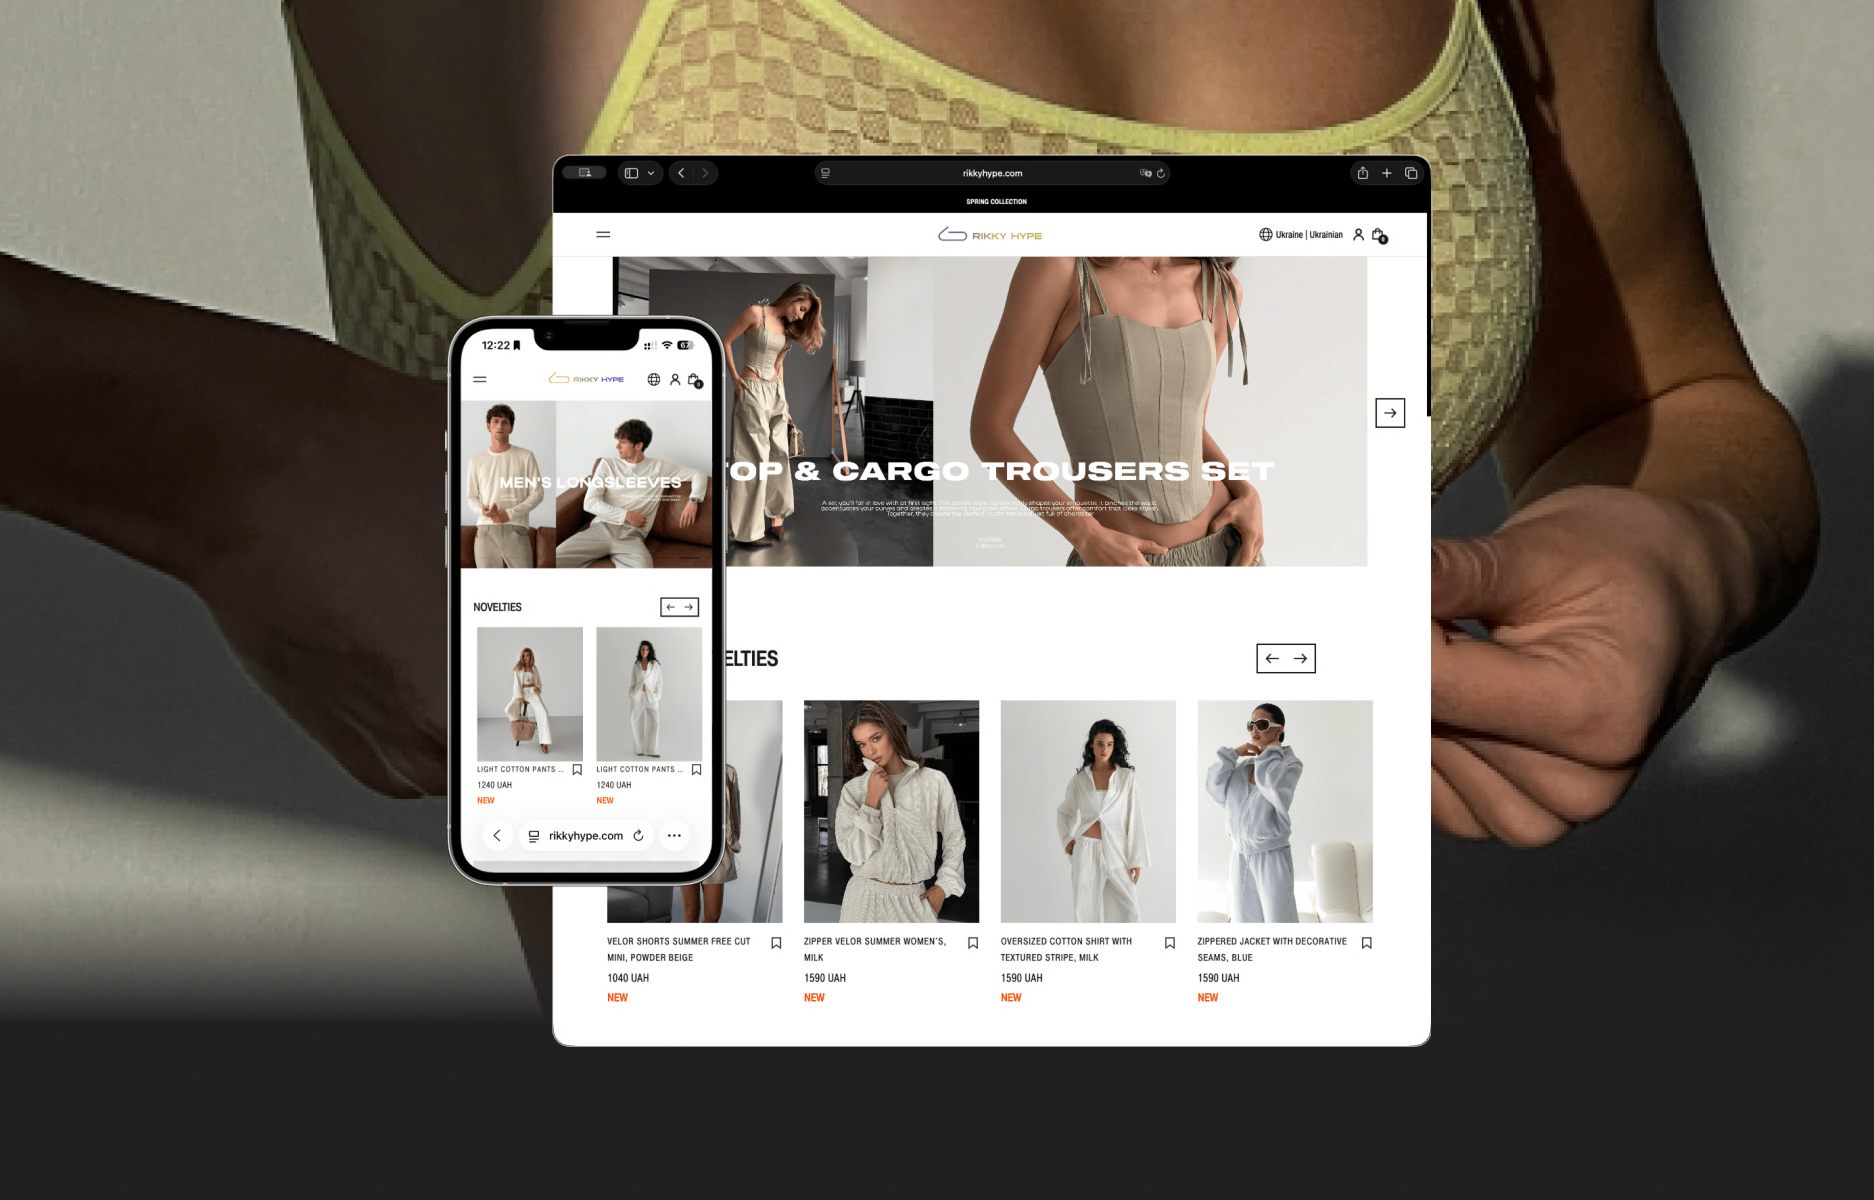
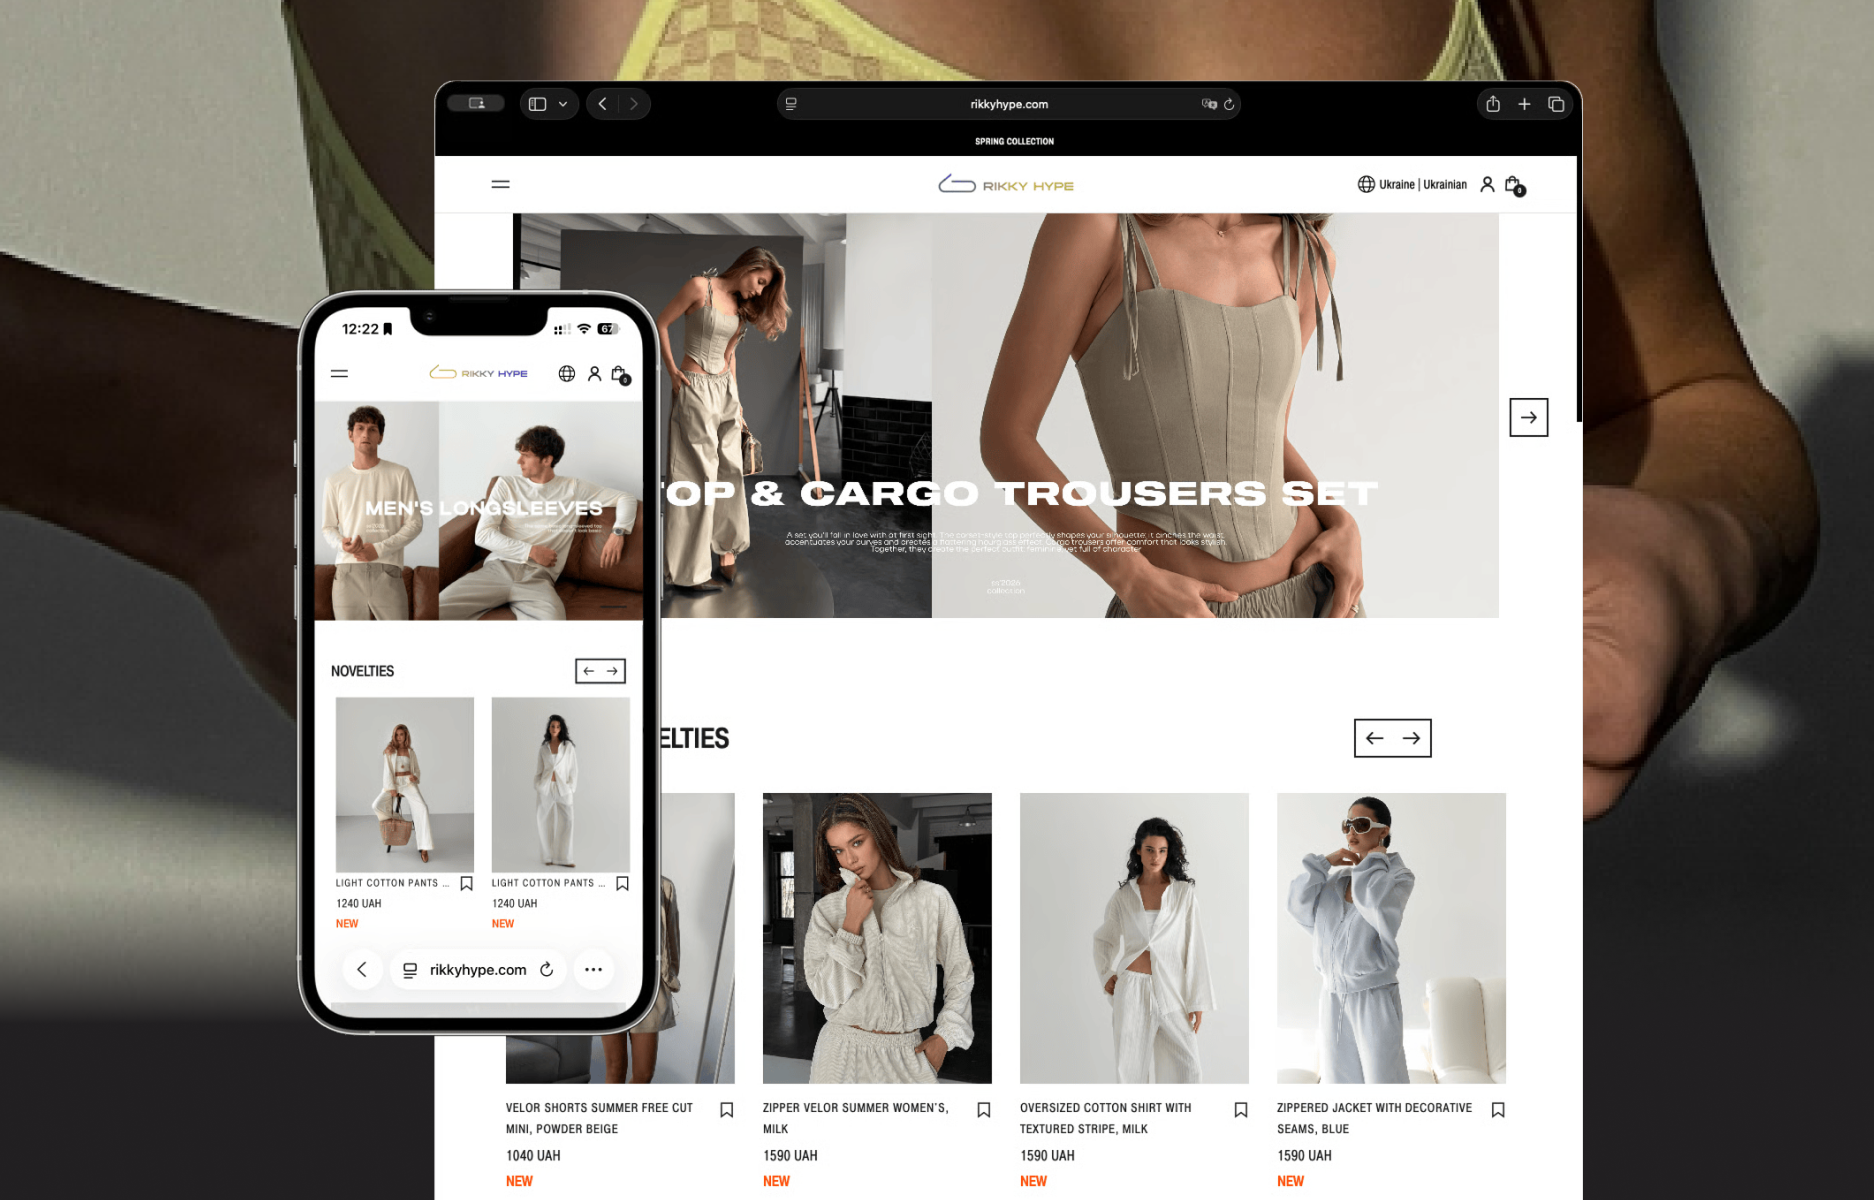
Fix audit items: update RikkyHype cover, remove em dash, update CTA text, add aria-hidden to clone buttons

diff --git a/src/App.tsx b/src/App.tsx
@@ -220,7 +220,7 @@ function Sidebar({
 
       <section className="card contact-card" id="contacts">
         <h3 className="sidebar-title">Have a project in mind?</h3>
-        <p>Book a call today</p>
+        <p>Let's talk</p>
         <button className="contact-email" type="button" onClick={onCopyEmail}>
           <span className="link-label">{profile.email}</span>
         </button>
@@ -248,13 +248,13 @@ function Hero({ onCopyEmail }: { onCopyEmail: () => void }) {
           <a className="button button-dark" href="https://t.me/anton_reva" target="_blank" rel="noreferrer">
             <span className="btn-text-wrap">
               <span className="btn-text"><svg className="button-icon" xmlns="http://www.w3.org/2000/svg" viewBox="0 0 24 24" fill="currentColor"><path d="M20.665 3.717l-17.73 6.837c-1.21.486-1.203 1.161-.222 1.462l4.552 1.42 10.532-6.645c.498-.303.953-.14.579.192l-8.533 7.701h-.002l.002.001-.314 4.692c.46 0 .663-.211.921-.46l2.211-2.15 4.599 3.397c.848.467 1.457.227 1.668-.787l3.019-14.228c.309-1.239-.473-1.8-1.282-1.432z"/></svg>Message me</span>
-              <span className="btn-text btn-text-clone"><svg className="button-icon" xmlns="http://www.w3.org/2000/svg" viewBox="0 0 24 24" fill="currentColor"><path d="M20.665 3.717l-17.73 6.837c-1.21.486-1.203 1.161-.222 1.462l4.552 1.42 10.532-6.645c.498-.303.953-.14.579.192l-8.533 7.701h-.002l.002.001-.314 4.692c.46 0 .663-.211.921-.46l2.211-2.15 4.599 3.397c.848.467 1.457.227 1.668-.787l3.019-14.228c.309-1.239-.473-1.8-1.282-1.432z"/></svg>Message me</span>
+              <span className="btn-text btn-text-clone" aria-hidden="true"><svg className="button-icon" xmlns="http://www.w3.org/2000/svg" viewBox="0 0 24 24" fill="currentColor"><path d="M20.665 3.717l-17.73 6.837c-1.21.486-1.203 1.161-.222 1.462l4.552 1.42 10.532-6.645c.498-.303.953-.14.579.192l-8.533 7.701h-.002l.002.001-.314 4.692c.46 0 .663-.211.921-.46l2.211-2.15 4.599 3.397c.848.467 1.457.227 1.668-.787l3.019-14.228c.309-1.239-.473-1.8-1.282-1.432z"/></svg>Message me</span>
             </span>
           </a>
           <a className="button button-light" href={cvUrl} target="_blank" rel="noreferrer">
             <span className="btn-text-wrap">
               <span className="btn-text"><Download className="button-cv-icon" aria-hidden="true" />{hero.secondaryAction}</span>
-              <span className="btn-text btn-text-clone"><Download className="button-cv-icon" aria-hidden="true" />{hero.secondaryAction}</span>
+              <span className="btn-text btn-text-clone" aria-hidden="true"><Download className="button-cv-icon" aria-hidden="true" />{hero.secondaryAction}</span>
             </span>
           </a>
         </div>

diff --git a/src/content.ts b/src/content.ts
@@ -42,7 +42,7 @@ export const taxIntakeCase = {
   meta: "2026 · FinTech · TaxDome",
   title: "Tax Intake Workflow: AI-Powered",
   description:
-    "After the beta launch, firms reported a noticeable drop in follow-up messages — the status of every document became clear without additional questions.",
+    "After the beta launch, firms reported a noticeable drop in follow-up messages. The status of every document became clear without additional questions.",
   outcomes: ["44.5% Activation in Beta", "3x Faster Document Collection"],
   action: "Read case study",
   href: "https://uxreva.super.site/portfolio/tax-intake-workflow-ai-powered-checklists-with-445-activation-in-beta-3x-faster-document-collection",